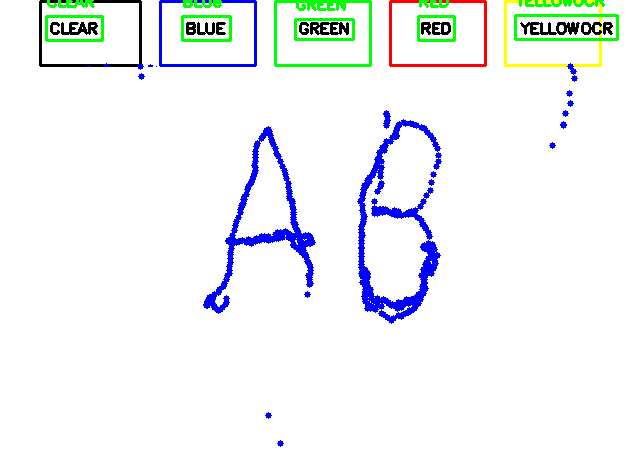
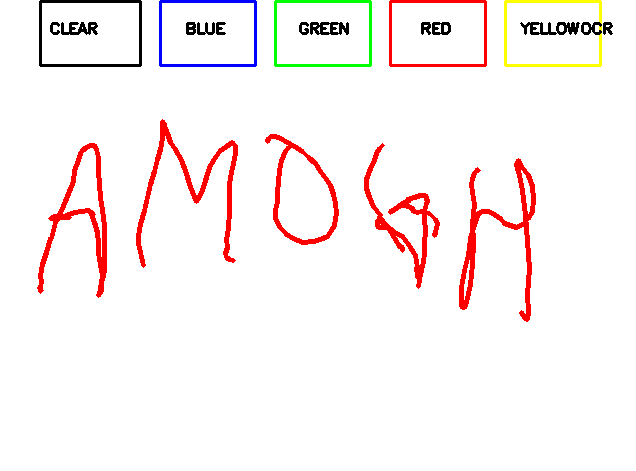
updated code

diff --git a/new.py b/new.py
@@ -1,0 +1,194 @@
+import cv2
+import numpy as np
+import mediapipe as mp
+from collections import deque
+import easyocr  # Import EasyOCR
+
+# Giving different arrays to handle colour points of different colour
+bpoints = [deque(maxlen=1024)]
+gpoints = [deque(maxlen=1024)]
+rpoints = [deque(maxlen=1024)]
+ypoints = [deque(maxlen=1024)]
+
+# These indexes will be used to mark the points in particular arrays of specific colour
+blue_index = 0
+green_index = 0
+red_index = 0
+yellow_index = 0
+
+# The kernel to be used for dilation purpose 
+kernel = np.ones((5,5),np.uint8)
+
+colors = [(255, 0, 0), (0, 255, 0), (0, 0, 255), (0, 255, 255)]
+colorIndex = 0
+
+# Here is code for Canvas setup
+paintWindow = np.zeros((471,636,3)) + 255
+paintWindow = cv2.rectangle(paintWindow, (40,1), (140,65), (0,0,0), 2)
+paintWindow = cv2.rectangle(paintWindow, (160,1), (255,65), (255,0,0), 2)
+paintWindow = cv2.rectangle(paintWindow, (275,1), (370,65), (0,255,0), 2)
+paintWindow = cv2.rectangle(paintWindow, (390,1), (485,65), (0,0,255), 2)
+paintWindow = cv2.rectangle(paintWindow, (505,1), (600,65), (0,255,255), 2)
+
+cv2.putText(paintWindow, "CLEAR", (49, 33), cv2.FONT_HERSHEY_SIMPLEX, 0.5, (0, 0, 0), 2, cv2.LINE_AA)
+cv2.putText(paintWindow, "BLUE", (185, 33), cv2.FONT_HERSHEY_SIMPLEX, 0.5, (0, 0, 0), 2, cv2.LINE_AA)
+cv2.putText(paintWindow, "GREEN", (298, 33), cv2.FONT_HERSHEY_SIMPLEX, 0.5, (0, 0, 0), 2, cv2.LINE_AA)
+cv2.putText(paintWindow, "RED", (420, 33), cv2.FONT_HERSHEY_SIMPLEX, 0.5, (0, 0, 0), 2, cv2.LINE_AA)
+cv2.putText(paintWindow, "YELLOW", (520, 33), cv2.FONT_HERSHEY_SIMPLEX, 0.5, (0, 0, 0), 2, cv2.LINE_AA)
+cv2.putText(paintWindow, "OCR", (580, 33), cv2.FONT_HERSHEY_SIMPLEX, 0.5, (0, 0, 0), 2, cv2.LINE_AA)  # OCR Button
+cv2.namedWindow('Paint', cv2.WINDOW_AUTOSIZE)
+
+# Initialize mediapipe
+mpHands = mp.solutions.hands
+hands = mpHands.Hands(max_num_hands=1, min_detection_confidence=0.7)
+mpDraw = mp.solutions.drawing_utils
+
+# Initialize EasyOCR Reader
+try:
+    reader = easyocr.Reader(['en'], verbose=False)  # Suppress verbose output
+except Exception as e:
+    print(f"Error initializing EasyOCR: {e}")
+
+# Initialize the webcam
+cap = cv2.VideoCapture(0)
+ret = True
+while ret:
+    # Read each frame from the webcam
+    ret, frame = cap.read()
+
+    x, y, c = frame.shape
+
+    # Flip the frame vertically
+    frame = cv2.flip(frame, 1)
+    framergb = cv2.cvtColor(frame, cv2.COLOR_BGR2RGB)
+
+    # Drawing the color buttons on the frame
+    frame = cv2.rectangle(frame, (40,1), (140,65), (0,0,0), 2)
+    frame = cv2.rectangle(frame, (160,1), (255,65), (255,0,0), 2)
+    frame = cv2.rectangle(frame, (275,1), (370,65), (0,255,0), 2)
+    frame = cv2.rectangle(frame, (390,1), (485,65), (0,0,255), 2)
+    frame = cv2.rectangle(frame, (505,1), (600,65), (0,255,255), 2)
+    cv2.putText(frame, "CLEAR", (49, 33), cv2.FONT_HERSHEY_SIMPLEX, 0.5, (0, 0, 0), 2, cv2.LINE_AA)
+    cv2.putText(frame, "BLUE", (185, 33), cv2.FONT_HERSHEY_SIMPLEX, 0.5, (0, 0, 0), 2, cv2.LINE_AA)
+    cv2.putText(frame, "GREEN", (298, 33), cv2.FONT_HERSHEY_SIMPLEX, 0.5, (0, 0, 0), 2, cv2.LINE_AA)
+    cv2.putText(frame, "RED", (420, 33), cv2.FONT_HERSHEY_SIMPLEX, 0.5, (0, 0, 0), 2, cv2.LINE_AA)
+    cv2.putText(frame, "YELLOW", (520, 33), cv2.FONT_HERSHEY_SIMPLEX, 0.5, (0, 0, 0), 2, cv2.LINE_AA)
+
+    # Get hand landmark prediction
+    result = hands.process(framergb)
+
+    # post process the result
+    if result.multi_hand_landmarks:
+        landmarks = []
+        for handslms in result.multi_hand_landmarks:
+            for lm in handslms.landmark:
+                lmx = int(lm.x * 640)
+                lmy = int(lm.y * 480)
+
+                landmarks.append([lmx, lmy])
+
+            # Drawing landmarks on frames
+            mpDraw.draw_landmarks(frame, handslms, mpHands.HAND_CONNECTIONS)
+        fore_finger = (landmarks[8][0], landmarks[8][1])
+        center = fore_finger
+        thumb = (landmarks[4][0], landmarks[4][1])
+        cv2.circle(frame, center, 3, (0, 255, 0), -1)
+
+        if (thumb[1] - center[1] < 30):
+            bpoints.append(deque(maxlen=512))
+            blue_index += 1
+            gpoints.append(deque(maxlen=512))
+            green_index += 1
+            rpoints.append(deque(maxlen=512))
+            red_index += 1
+            ypoints.append(deque(maxlen=512))
+            yellow_index += 1
+
+        elif center[1] <= 65:
+            if 40 <= center[0] <= 140:  # Clear Button
+                bpoints = [deque(maxlen=512)]
+                gpoints = [deque(maxlen=512)]
+                rpoints = [deque(maxlen=512)]
+                ypoints = [deque(maxlen=512)]
+
+                blue_index = 0
+                green_index = 0
+                red_index = 0
+                yellow_index = 0
+
+                paintWindow[67:, :, :] = 255
+            elif 160 <= center[0] <= 255:
+                colorIndex = 0  # Blue
+            elif 275 <= center[0] <= 370:
+                colorIndex = 1  # Green
+            elif 390 <= center[0] <= 485:
+                colorIndex = 2  # Red
+            elif 505 <= center[0] <= 600:
+                colorIndex = 3  # Yellow
+            elif 580 <= center[0] <= 636:  # OCR Button
+                # Capture the paint window as an image
+                paint_image = paintWindow[0:471, 0:636]
+                
+                # Ensure the image is in the correct format
+                paint_image = np.uint8(paint_image)  # Convert to uint8
+                
+                cv2.imwrite("captured_paint.png", paint_image)  # Save the image for debugging
+                print("Screenshot captured and saved as 'captured_paint.png'.")
+                
+                # Perform OCR
+                ocr_result = reader.readtext(paint_image)
+                
+                # Check if OCR returned any results
+                if ocr_result:
+                    print("OCR Results:")
+                    for (bbox, text, prob) in ocr_result:
+                        # Draw the bounding box and text on the paint window
+                        cv2.rectangle(paintWindow, (int(bbox[0][0]), int(bbox[0][1])), 
+                                      (int(bbox[2][0]), int(bbox[2][1])), (0, 255, 0), 2)
+                        cv2.putText(paintWindow, text, (int(bbox[0][0]), int(bbox[0][1] - 10)), 
+                                    cv2.FONT_HERSHEY_SIMPLEX, 0.5, (0, 255, 0), 2)
+                        print(f"Detected text: {text}")
+                else:
+                    print("No text detected by OCR.")
+                
+        else:
+            if colorIndex == 0:
+                bpoints[blue_index].appendleft(center)
+            elif colorIndex == 1:
+                gpoints[green_index].appendleft(center)
+            elif colorIndex == 2:
+                rpoints[red_index].appendleft(center)
+            elif colorIndex == 3:
+                ypoints[yellow_index].appendleft(center)
+
+    # Draw lines instead of points for a smoother experience
+    for i in range(len(bpoints)):
+        for j in range(1, len(bpoints[i])):
+            cv2.line(frame, bpoints[i][j - 1], bpoints[i][j], colors[0], 3)
+            cv2.line(paintWindow, bpoints[i][j - 1], bpoints[i][j], colors[0], 3)
+
+    for i in range(len(gpoints)):
+        for j in range(1, len(gpoints[i])):
+            cv2.line(frame, gpoints[i][j - 1], gpoints[i][j], colors[1], 3)
+            cv2.line(paintWindow, gpoints[i][j - 1], gpoints[i][j], colors[1], 3)
+
+    for i in range(len(rpoints)):
+        for j in range(1, len(rpoints[i])):
+            cv2.line(frame, rpoints[i][j - 1], rpoints[i][j], colors[2], 3)
+            cv2.line(paintWindow, rpoints[i][j - 1], rpoints[i][j], colors[2], 3)
+
+    for i in range(len(ypoints)):
+        for j in range(1, len(ypoints[i])):
+            cv2.line(frame, ypoints[i][j - 1], ypoints[i][j], colors[3], 3)
+            cv2.line(paintWindow, ypoints[i][j - 1], ypoints[i][j], colors[3], 3)
+
+    # Show all the windows
+    cv2.imshow("Output", frame)
+    cv2.imshow("Paint", paintWindow)
+
+    if cv2.waitKey(1) == ord('q'):
+        break
+
+# Release the camera and close all windows
+cap.release()
+cv2.destroyAllWindows()
